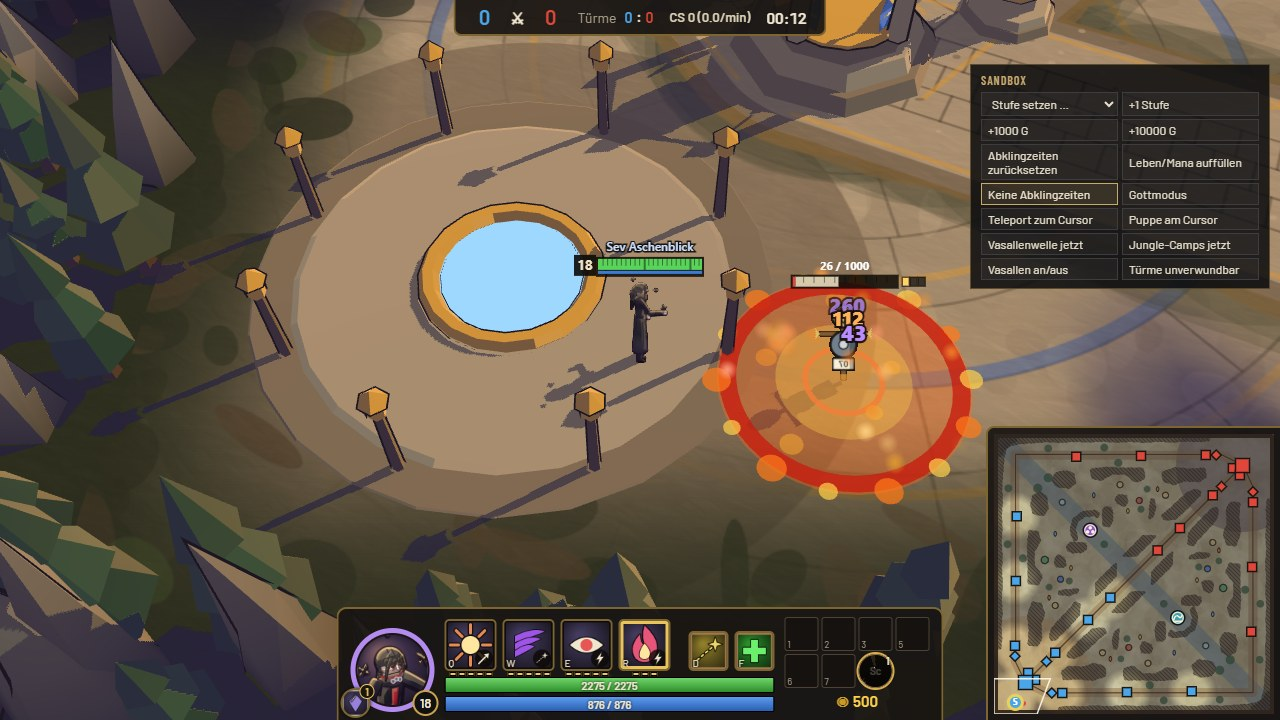
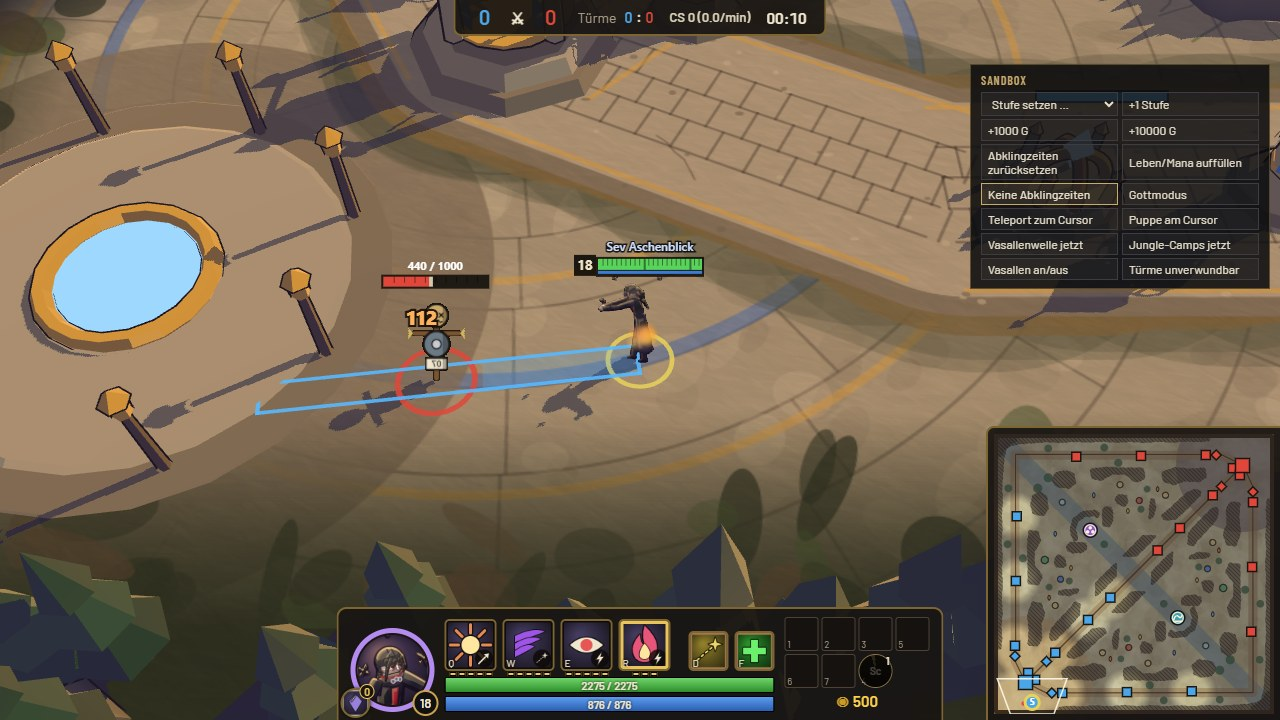
e: sev spectral Susanoo ribs, visible crow storm (0.9 s), Fassung 3 screenshots, e.md + handoff

diff --git a/src/render/sevFx.ts b/src/render/sevFx.ts
@@ -11,6 +11,8 @@ export interface SevFxApi {
   disc: THREE.BufferGeometry;
   ring: THREE.BufferGeometry;
   thin: THREE.BufferGeometry;
+  /** Unit plane lying flat (XZ). */
+  plane: THREE.BufferGeometry;
   /** Flat strip a -> b of width w at height h. */
   strip(m: Mesh, ax: number, ay: number, bx: number, by: number, w: number, h: number): void;
   /** End point of a line object (follows its unit). */
@@ -54,13 +56,17 @@ export function drawSevObject(o: SnapObject, now: number, g: SevFxApi): boolean 
     case 'sev_w_crows': {
       // crow burst: dark shock ring expanding + crows flying outward
       const t = 1 - life;
-      circle(g.thin, o.r * (0.4 + 0.8 * t), '#1a1420', 0.85 * life, 5);
-      circle(g.disc, o.r * (0.3 + 0.5 * t), '#3a1a3a', 0.35 * life, 3);
+      circle(g.disc, o.r * (0.35 + 0.65 * t), '#2a0f38', 0.5 * life, 3);
+      circle(g.ring, o.r * (0.4 + 0.65 * t), '#c89aff', 0.85 * life, 5);
+      circle(g.thin, o.r * (0.25 + 0.5 * t), '#e8d8ff', 0.6 * life, 6);
       // crow storm: crows spiral outward to the edge and beyond
       for (let i = 0; i < 18; i++) {
         const a = (i / 18) * Math.PI * 2 + t * 2.2 + (i % 3) * 0.2;
         const rr = o.r * (0.15 + (0.75 + (i % 4) * 0.12) * t);
-        circle(g.disc, 12 + (i % 3) * 4, '#0e0a12', 0.95 * Math.min(1, life * 2), 30 + (i % 5) * 6, o.x + Math.cos(a) * rr, o.y + Math.sin(a) * rr);
+        const cx = o.x + Math.cos(a) * rr;
+        const cy = o.y + Math.sin(a) * rr;
+        circle(g.disc, 22 + (i % 3) * 6, '#9a78c8', 0.55 * Math.min(1, life * 2), 29 + (i % 5) * 6, cx, cy);
+        circle(g.disc, 16 + (i % 3) * 5, '#0e0a12', 0.95 * Math.min(1, life * 2), 30 + (i % 5) * 6, cx, cy);
       }
       circle(g.ring, o.r, '#6a2a7a', 0.6 * life, 4);
       return true;
@@ -104,6 +110,34 @@ export function drawSevObject(o: SnapObject, now: number, g: SevFxApi): boolean 
       g.strip(spine, o.x, o.y - o.r * 0.9, o.x, o.y + o.r * 0.9, 18, 7);
       spine.material.color.set('#ff8a40');
       spine.material.opacity = 0.65;
+      // standing spectral ribs around Sev (vertical translucent planes) + a halo where the guardian's head is
+      for (let i = 0; i < 10; i++) {
+        const a = (i / 10) * Math.PI * 2;
+        const m = g.part();
+        m.geometry = g.plane;
+        m.rotation.order = 'YXZ';
+        m.rotation.set(Math.PI / 2, -a + Math.PI / 2, 0);
+        const h = 230 + 70 * Math.sin(a * 2 + 1);
+        m.position.set(o.x + Math.cos(a) * o.r * 0.8, h / 2, -(o.y + Math.sin(a) * o.r * 0.8));
+        m.scale.set(40, 1, h);
+        m.material.side = 2; // THREE.DoubleSide (seen from both sides)
+        m.material.needsUpdate = true;
+        m.material.color.set(i % 2 ? '#ff6a2a' : '#ff9a4a');
+        m.material.opacity = 0.45 * p;
+      }
+      // translucent body of the guardian (upright, double-sided) + its head halo
+      for (const [w, h, col, a] of [[o.r * 1.7, 380, '#ff5a1e', 0.16], [o.r * 1.0, 300, '#ffa050', 0.14]] as [number, number, string, number][]) {
+        const b = g.part();
+        b.geometry = g.plane;
+        b.rotation.set(Math.PI / 2, 0, 0);
+        b.position.set(o.x, h / 2, -o.y);
+        b.scale.set(w, 1, h);
+        b.material.side = 2;
+        b.material.needsUpdate = true;
+        b.material.color.set(col);
+        b.material.opacity = a * p;
+      }
+      circle(g.ring, 70, '#ffb070', 0.5 * p, 330);
       for (let i = 0; i < 4; i++) {
         const y = o.y + o.r * (0.55 - i * 0.32);
         for (const s of [1, -1]) {

diff --git a/src/render/groundObjects.ts b/src/render/groundObjects.ts
@@ -55,6 +55,7 @@ class View {
     }
     const m = this.parts[i]!;
     m.visible = true;
+    m.rotation.order = 'XYZ';
     m.rotation.set(0, 0, 0);
     m.scale.set(1, 1, 1);
     return m;
@@ -234,7 +235,7 @@ export class GroundObjects {
     if (o.tag.startsWith('sev_')) {
       const fol = o.follow !== undefined ? state.byId.get(o.follow) : undefined;
       const end = { x: fol ? state.x(fol) : o.x2 ?? o.x, y: fol ? state.y(fol) : o.y2 ?? o.y };
-      if (drawSevObject(o, now, { part: p, disc: GEO.disc, ring: GEO.ring, thin: GEO.thin, strip, end })) return void v.hideFrom(n);
+      if (drawSevObject(o, now, { part: p, disc: GEO.disc, ring: GEO.ring, thin: GEO.thin, plane: GEO.plane, strip, end })) return void v.hideFrom(n);
     }
     switch (shape) {
       case 'blade': {

diff --git a/src/sim/champions/sev.ts b/src/sim/champions/sev.ts
@@ -29,7 +29,7 @@ const GENJUTSU_CD = sec(12);
 const FIRE_TICK = sec(0.5);
 const GRIEVOUS_PCT = 40;
 const SWEEP_RADIUS = 300;
-const BURST_SHOW = sec(0.6);
+const BURST_SHOW = sec(0.9);
 
 // ------------------------------------------------------------------ state
 

diff --git a/docs/agents/e.md b/docs/agents/e.md
@@ -1,94 +1,60 @@
-# Agent E - new champion Sev Aschenblick (status)
+# Agent E - Sev Aschenblick (status)
 
-Branch: `champ/e-sev` (on main e0f40bb). Spec (user, verbatim): `docs/champions/sev.md`.
-History: started as "Itachi"; the user replaced it with Sev (Fassung 2) before any code existed. No Itachi files,
-names or branches remain.
+Branch: `champ/e-sev`. Spec: `docs/champions/sev.md` (Fassung 3 on top, Fassung 2 kept below it).
 
-## Done (commits on champ/e-sev)
+## History
+- Itachi (first prompt) -> dropped before code. Fassung 2 ("das Auge, das brennt und täuscht") shipped to main
+  (fear CC, uncleansable, decoy with fake HP bar). User feedback: "zu langweilig, sieht nicht aus wie Itachi" ->
+  Fassung 3 (Itachi-inspired, R choice). Then: "Itachi braucht eine bessere AoE-Ability" -> bigger Q/W AoE.
+- Fassung 2 balance (archived): 8 gold + 6 platinum bot games, Sev dealt about as much damage to champions as the
+  enemy mid (gold avg 3132 vs 3005, platinum 2627 vs 3216); the ember jump fired ~1/game for ~100-130 burn ->
+  jump was kept. Fassung 2 also added: Sev rows in docs/ability-cast-audit.md, Sev in the trainer MID/JG pools
+  (fallback), encyclopedia screenshots (docs/ist/e-sev-encyclopedia*.jpg), a fizzle sound for fake casts.
+
+## Fassung 3 - done
 | Commit | What |
 |---|---|
-| c310e23 | spec `docs/champions/sev.md` |
-| 068d755 | `src/data/champions/sev.json`, `src/sim/champions/sev.ts`, registry lines, build `src/data/builds/sev.json`, rune presets, motif row, `tests/sev.test.ts`; sim extensions: CC `fear`, `Buff.uncleansable`, `ChampionHooks.targetOk`, `PassiveHook.onPetDamaged`, pet helpers; i18n `cc.fear`; roster counts 26 -> 27; combo harness fake step |
-| bfa425b | sprite kit (`src/render/champions/sev.ts` props + kit entry + Hold `palm`); `tools/botSim.ts --champion=<id>`; `tools/scratch/sevCasts.ts` |
-| 4f29a96 | decoy looks like Sev: snapshot `look`/level, champion sprite + fake champion bar |
-| cc48f6c | docs: `docs/champion-hooks.md` (Sev section, 107 hooks / 26 champions), `docs/spec-champions.md` roster #27 + roles, shared-changes, bot wishes in issues.md |
-| 46f0929 | `tests/sim/castMovement.test.ts`: dummy gets a Nachbild so Sev R can be cast |
-| c4476d4 | overlay: black-ember / Nachbild glyphs next to the HP bar; e.md + handoff |
-| 8279a7f | merge origin/main c15e402 (conflicts in buffs/damage/snapshot + docs resolved keeping both sides); champ/e-sev now contains main and fast-forwards |
-| 14c2252 | visuals: no duplicate Nachbild mark (the snapshot already lists champion-prefixed mark buffs); screenshots |
+| ba18be0 | spec Fassung 3 |
+| d089dc0 | kit + R choice engine + client lookups + choice cards (`src/ui/ultChoice.ts`) + tests |
+| f71b883 | new look (long black hair, low ponytail, front strands, red three-blade eyes, tear troughs, crimson-lined high-collar cloak, crow-feather marks, three-ring necklace, crows circling + a crow over the palm), per-ability ground FX (`src/render/sevFx.ts`), Tsukuyomi red-black screen tint |
+| e93f32c | stronger AoE (user feedback): Q explosion radius 300 + 2 s burning ground with a flame ring, W crow storm radius 350 |
+| 97831b2 | docs: champion-hooks (Sev section, 110 hooks), roster entry, shared-changes, bot rules (issues.md) |
+| (merges) | origin/main 9ed4070 and 660c54e merged without conflicts |
 
-### Kit as implemented (numbers in sev.json; hook constants at the top of sev.ts)
-- Passive Nachbild: every ability hit marks 3 s (`mark` buff `sev_nachbild`); autos on marked enemies +10-30 (+15 % AP)
-  magic and extend his ember by 0.5 s (cap 8 s total). Enemy ability hits on his decoy mark the attacker.
-- Q Glutblick: line 950, width 60, wind-up 0.4 s; recast during the wind-up = fake (refund, 2 s CD).
-- W Schwarzglut: targeted 650: dot 4 s + grievous 40 %, both `uncleansable`; jumps once (300) when the target dies
-  (any killer); on his own decoy: decoy lives 4 s and burns enemies within 250 for 50 %.
-- E Trugbild: blink 450, decoy pet at the start for 2.5 s with Sev's HP/mana (fake bar), 0 AD autos at Sev's target.
-- R Augenbann: needs a Nachbild target (otherwise the cast fails 'target'); 0.5 s wind-up = eye contact (lost sight
-  cancels, refund, 2 s CD); 1.5 s fear (tenacity applies) + 50 % slow + reveal; end damage, x1.5 with ember.
-- Fear CC (bot consumers of `me.cc` in src/ai/ganks/escape.ts and src/ai/bot/spells.ts only compare `>= 3` / `< 3` / `>= 5`, so 3.5 reads as hard CC; spells.ts may then try Reinigen, which fails with 'cc' under fear): no attacks/casts/summoners (Reinigen too), breaks channels/recall/Teleport, unit walks away from the source
-  (movement pre-pass), ccLevel 3.5 (between root 3 and stun 4), CC_BIT 256, HUD label "Verängstigt"/"Feared".
+### Kit (numbers in `src/data/champions/sev.json`)
+- Passive Rabenblick: Gaze stacks (3 max, 6 s) from ability hits on champions; at 3: 0.75 s genjutsu stun, 12 s per target.
+- Q Feuerball: 0.4 s wind-up, line 900 (width 90, speed 1300), explodes on first unit or at max range, radius 300
+  80/125/170/215/260 (+70 % AP), burning ground 2 s 25/40/55/70/85 (+15 % AP)/s; fake recast (refund, 2 s CD).
+- W Krähendoppel: blink 400, castable while rooted (`root_ok`), crow clone with fake HP bar at the start, enemy homing
+  projectiles switch to it; bursts after 1.5 s or when hit: radius 350, 70/110/150/190/230 (+60 % AP), 35 % slow 1.5 s.
+- E Bannblick: targeted 650, 0.4 s eye contact (gaze line telegraph): stun 1.25 s if the target faces Sev, else 40 % slow.
+- R: choice at the first point (cards above the ability bar, keys 1/2/3; permanent; bots: `botUltChoice` [4,3,3]):
+  Amaterasu (5 s uncleansable black flames 40/60/80 +12 % AP +1.5 % target max HP per s, grievous, jump once 400),
+  Susanoo (6 s shield 250/400/550 +80 % AP, slow immunity, sweeping autos, one 1000-long sword thrust),
+  Tsukuyomi (500, 1.5 s suppression, Sev rooted, 150/225/300 +50 % AP +25 % missing HP, red-black tint).
 
 ### Tests
-- `tests/sev.test.ts` (16): hooks exported, Q hit + Nachbild, Q fake, W dot/grievous/uncleansable vs Reinigen, W jump
-  once, W on decoy, E blink + decoy + lifetime, decoy snapshot look, decoy ability vs auto mark, passive bonus +
-  ember extension, R needs Nachbild, R fear/flee/locks/ccLevel/+50 % ember, tenacity, lost sight cancels, determinism.
-- Full `npx vitest run` (under heavy CPU load): 886 passed, 2 failed -> castMovement/sev fixed in 46f0929 (re-run
-  green); `tests/brainReflex.test.ts` "reflex logic < 0.05 ms per bot and tick" failed on time budget (test took 239 s
-  while 4+ agents shared the CPU; timing test, not related to Sev) - re-run it alone on a quiet machine.
-- Post-merge full `npx vitest run` (tree 14c2252 = main c15e402 + Sev): 919 passed, 1 failed:
-  `tests/botStyle.test.ts` spec test 9 throws `TypeError ... reading 'utility'` in `src/ai/utility/flag.ts:26`
-  (TeamAI.evaluate called without a ctx; brom-only test, no Sev involved; src/ai and that test are identical to main
-  -> brain team). brainReflex passed this time.
-- Second merge of origin/main 04a1eb5 (contains the utilityOn fix 941993f; snapshot import conflict resolved): tsc clean;
-  sev, snapshot, championData, replay, abilityMotifs, items, botParams, sideMirror, combos, botStyle, castMovement,
-  telegraph, summonersWards all green (397 tests).
-- `npx tsc --noEmit`: clean.
+- `tests/sev.test.ts` (15): hooks, passive genjutsu + cooldown, Q hit/expire explosions + burning ground, Q fake,
+  W blink while rooted / not stunned + clone look, burst on timer and on hit, projectile substitution, E facing rule,
+  R choice permanence + not castable before, bot pick deterministic and weighted, Amaterasu (uncleansable, jump once),
+  Susanoo (shield, slow immunity, sweep, single thrust), Tsukuyomi (suppress, root, tint mark, missing-HP scaling),
+  determinism for each ult.
+- Touched suites green: championData, abilityMotifs, botParams, items, telegraph (smoke test needs a quiet CPU: 5 s
+  timeout on the dynamic import), combos, replay, sideMirror, snapshot, castMovement, summonersWards, i18n,
+  abilityVisuals, aimPreview, abilities, scenarios, spriteTiming. tsc clean.
 
-### Screenshots (1280x720, `npx vite build` + `vite preview --port 5392`, headless Edge, no console errors)
-`docs/ist/e-sev-lobby.jpg` (classic lobby, Sev card + ability icons), `e-sev-ingame-idle.jpg`, `e-sev-q.jpg` (Q wind-up
-telegraph), `e-sev-w.jpg` (ember + Nachbild glyphs on the dummy), `e-sev-e-decoy.jpg` (Sev + decoy with fake champion
-bar), `e-sev-r.jpg` (fear: ring, three phantoms, "Verängstigt"). All six from the preview build.
-Sprite close-ups were checked in the stylelab (`window.__champSheet`).
+### Screenshots (dev server, 1280x720, docs/ist/)
+e-sev3-choice-cards, e-sev3-idle, e-sev3-q-windup, e-sev3-q-fire (300 flame ring), e-sev3-e-gaze, e-sev3-w-clone,
+e-sev3-w-burst, e-sev3-r-amaterasu, e-sev3-r-susanoo, e-sev3-r-susanoo-thrust, e-sev3-r-tsukuyomi.
 
-### Bot games (gold, 15 min, Sev in blue mid; tools/scratch/sevCasts.ts)
-| seed | Sev casts Q/W/E/R | fear s | Sev cs / k-d / dmg to champs | enemy mid |
-|---|---|---|---|---|
-| 1 | 14/6/2/0 | 0 | 42 / 1-1 / 1570 | Ilvane 56 / 1-1 / 1460 |
-| 2 | 16/9/7/3 | 4.4 | 35 / 4-1 / 4735 | Kaelen 35 / 1-3 / 2763 |
-Bots play him without crashes and cast every ability (R only when a Nachbild is up). Bots never fake Q (no brain logic).
-Official run `npm run bot-sim -- --rank=gold --games=2 --minutes=15 --champion=sev`: exit 0, same numbers (deterministic).
-Build: `npx vite build` green (one earlier run under heavy load printed "error during build" without details; the
-re-run on the same tree passed in 3m42s).
-
-## Open items (exact next steps)
-1. **Balance decision on the ember jump** (spec "Einwand"): 2 games are too few. Run
-   `npx tsx tools/scratch/sevCasts.ts 10 20 gold` (and platinum) and compare Sev's damage to champions with the other
-   mids; if Sev is clearly ahead, drop the jump (set `JUMP_RANGE` use off: remove the jump block in `tickEmbers`) or
-   lower W to 16/26/36/46/56. Current proposal: keep the jump until the brain team's Sev logic exists (bots do not yet
-   play around the ember either).
-2. **Black-ember visual on burning units**: today the ember shows as a mark (pips/diamond over the HP bar) and the
-   burning decoy as an orange disc (`sev_w_decoy`, hue 14). Wanted: black flame tongues with a copper core on the
-   unit (render, agent D area: a per-mark effect in `src/render/groundObjects.ts` or `fx.ts` keyed on mark id `sev_w`).
-3. **Augenbann phantoms**: drawn as three generic pins + a ring (`sev_r_phantom`, `sev_r_bann`). Better: three
-   translucent Sev sprites around the target, only on the feared player's client, plus a dark vignette for him.
-4. **Ability sounds**: none per champion yet (check `src/audio` for per-champion cues).
-5. **Fear icon**: overlay CC chip uses the generic label; a fear glyph for `src/ui/icons.ts` would help.
-6. **Bot rules / build line**: see docs/agents/issues.md (2026-10-19 E entry): `BUILDS` line in src/ai/bot/builds.ts
-   (stopgap in tools/botSim.ts), Q fakes, decoy rules, ember in ExchangeEstimate, fear in escape node, R only on
-   marked targets.
-7. `docs/ability-cast-audit.md` rows for sev_q..sev_r (B2 audit, optional; `B2_AUDIT=1` prints them).
-8. Trainer scenarios: add `'sev'` to the MID / JG pools in `src/sim/trainer/scenarios.ts` once bots handle him.
-9. Encyclopedia/showcase pick Sev up automatically from CHAMPION_DATA (not checked visually).
+## Open items
+1. Balance vs other mids: `tools/balance.ts` does not exist in the repo; numbers come from bot games
+   (`npx tsx tools/scratch/sevCasts.ts <games> <min> <rank> <seed>`). See the balance section below.
+2. Brain team (A2): ult choice, Q fakes, look-away vs E, clone rules, Amaterasu in ExchangeEstimate, Tsukuyomi
+   timing (docs/agents/issues.md, 2026-10-22 entry). `BUILDS.sev` is in src/ai/bot/builds.ts now.
+3. The fear CC from Fassung 2 stays in the engine (unused by Sev now; documented in buffs.ts) - B may keep or drop it.
+4. Passive icon: chosen by keyword rules (flame); a table entry for passives would let it show an eye.
+5. Final screenshots from a `vite build` + preview run (dev-server shots are the same code).
 
 ## Shared-file edits
-All listed with commits in `docs/agents/shared-changes.md` (2026-10-19 · E entry).
-
-## DECISIONS proposals
-- Fear = CcKind `fear` between root and stun (ccLevel 3.5), tenacity applies, locks every summoner incl. Reinigen,
-  forced walk away from the source in the movement system.
-- `Buff.uncleansable`: every cleanse must skip it (Reinigen does; Ferris/Oda only cleanse slows - Sev's R slow is
-  marked uncleansable too).
-- Decoy pets: tag suffix `_decoy` makes the snapshot report `look` = owner's champion; render/HUD treat it as that
-  champion (sprite + champion bar + name).
-- `ChampionHooks.targetOk` for champion-specific target rules (narrow or widen), `PassiveHook.onPetDamaged`.
+`docs/agents/shared-changes.md`: 2026-10-19 (Fassung 2) and 2026-10-22 (Fassung 3) E entries with commits.

diff --git a/docs/agents/e-handoff.md b/docs/agents/e-handoff.md
@@ -1,24 +1,19 @@
-# Agent E handoff - Sev Aschenblick
+# Agent E handoff - Sev Aschenblick (Fassung 3)
 
-State: Sev is playable and selectable (classic lobby mid/jungle, practice/sandbox), green core (tsc clean,
-tests/sev.test.ts 16 tests, full vitest green except one CPU-load timing test in brainReflex). Branch `champ/e-sev`.
-Details, commits, numbers and open items: `docs/agents/e.md`. Spec: `docs/champions/sev.md`.
+State: Sev is the Itachi-inspired genjutsu mage of Fassung 3 with a per-match R choice (Amaterasu / Susanoo /
+Tsukuyomi), stronger Q/W AoE after the user's AoE feedback, new sprite with crows, per-ability ground effects.
+Branch `champ/e-sev`, merges into main without conflicts. Details, commits, numbers, open items: `docs/agents/e.md`.
 
 Where things live:
-- Data: `src/data/champions/sev.json`, `src/data/builds/sev.json`, `src/data/runePresets.json` (`sev`), motif row in
-  `src/render/abilityMotifs.json`.
-- Sim: `src/sim/champions/sev.ts` (all kit logic, helpers `hasNachbild`, `isEmbered`, `sevDecoy`, `sevBann`);
-  generic extensions in buffs.ts (fear, uncleansable), movement.ts (flee), summoners.ts, abilities.ts (targetOk,
-  summoner lock), damage.ts (onPetDamaged), summons.ts (petOwner/petTag/extendPet), snapshot.ts (`look`).
-- Render: `src/render/champions/sev.ts` (props), kit entry at the end of `kits.ts`, Hold `palm` in anim.ts/types.ts,
-  decoy sprite in `championSprites.ts`, fake champion bar in `src/ui/overlay.ts`.
-- Tests: `tests/sev.test.ts`; touched: championData, abilityMotifs, botParams, items, telegraph (27), combos (fake
-  step), sim/castMovement (Nachbild for R).
-- Tools: `npm run bot-sim -- --champion=sev ...` (blue mid), `npx tsx tools/scratch/sevCasts.ts [games] [min] [rank]`.
+- Data: `src/data/champions/sev.json` (abilities, `ultChoices`, `botUltChoice`), build, rune presets, motif row
+  (7 motifs incl. the ults) in `src/render/abilityMotifs.json`.
+- Sim: `src/sim/champions/sev.ts`; R choice engine in `src/sim/systems/abilities.ts` (`chooseUlt`, `ultChoiceOf`,
+  `botUltPick`, `abilityOf`), command `ultChoice` (input.ts/types.ts), `SnapEntity.ult`, `AbilityHud.ultChoice`.
+- Client: `abilityForSlot` / `ultDisplaySlot` in `src/data/champions/index.ts` (virtual slots 4..6 = the three ults),
+  cards `src/ui/ultChoice.ts`(+css), ground FX `src/render/sevFx.ts` (hooked in groundObjects.ts), sprite props
+  `src/render/champions/sev.ts` + kit entry in kits.ts.
+- Tests: `tests/sev.test.ts`; combos/castMovement pick the first ult for champions with a choice.
+- Tools: `npx tsx tools/scratch/sevCasts.ts [games] [min] [rank] [seed]` (Sev blue mid, casts, ult, CC, vs red mid).
 
-Next steps (priority): ember-jump balance decision from more bot games; black-ember render on burning units;
-Augenbann phantoms as Sev sprites + feared-player vignette; brain team wishes in docs/agents/issues.md.
-
-Screenshots: headless Edge via CDP (`node shot.mjs <url> <steps.json>`, driver copied from the shared scratchpad),
-steps: classic lobby -> Sev card; sandbox -> Sev, cheats setLevel 18 + noCooldowns, teleport next to the dummy,
-hold Space (camera follow), then Q/W/E/R via `window.__vg.link.send` (needs `?bench`).
+Screenshot driver: headless Edge over CDP (`node shot.mjs <url> <steps.json>`), steps generated by `gen3.py`
+(sandbox -> Sev -> setLevel 18 -> cards -> key 1/2/3 -> Q/E/W/R); needs `?bench` and a vite dev/preview server.
